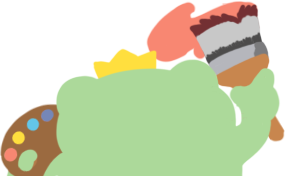
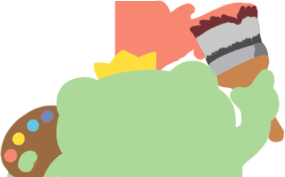
flatten the right edge of progress bar

diff --git a/components/Progress.tsx b/components/Progress.tsx
@@ -8,20 +8,22 @@ const Progress = ({ max, value }: Props) => {
   const percentage = (value / max) * 100;
 
   return (
-    <div
-      className={`progress-container image-background ${
-        value === max ? 'end' : ''
-      }`}
-    >
-      <div className="border-container">
-        <div className="bar" style={{ width: `${percentage}%` }} />
+    <div className="progress-wrapper">
+      <div
+        className={`progress-container image-background ${
+          value === max ? 'end' : ''
+        }`}
+      >
+        <div className="border-container">
+          <div className="bar" style={{ width: `${percentage}%` }} />
+        </div>
+        <img
+          className="indicator"
+          src="/images/progress/indicator.png"
+          alt=""
+          style={{ left: `${percentage - 8}%` }}
+        />
       </div>
-      <img
-        className="indicator"
-        src="/images/progress/indicator.png"
-        alt=""
-        style={{ left: `${percentage - 8}%` }}
-      />
     </div>
   );
 };

diff --git a/styles/globals.css b/styles/globals.css
@@ -151,11 +151,13 @@ body {
   margin-top: 0.5em;
 }
 
+.progress-wrapper {
+  padding: 5px 2em 0 2em;
+}
 .progress-container {
   background-image: url('/images/progress/border.png');
   /* height/width ratio */
   padding-top: 8.4%;
-  margin-top: 5px;
 }
 .progress-container .border-container {
   width: 100%;
@@ -171,8 +173,11 @@ body {
 .progress-container .bar {
   background-color: #f88772;
   height: 100%;
-  border-radius: 11px;
+  border-radius: 11px 0 0 11px;
   position: relative;
+}
+.progress-container.end .bar {
+  border-radius: 11px;
 }
 .progress-container .indicator {
   position: absolute;
